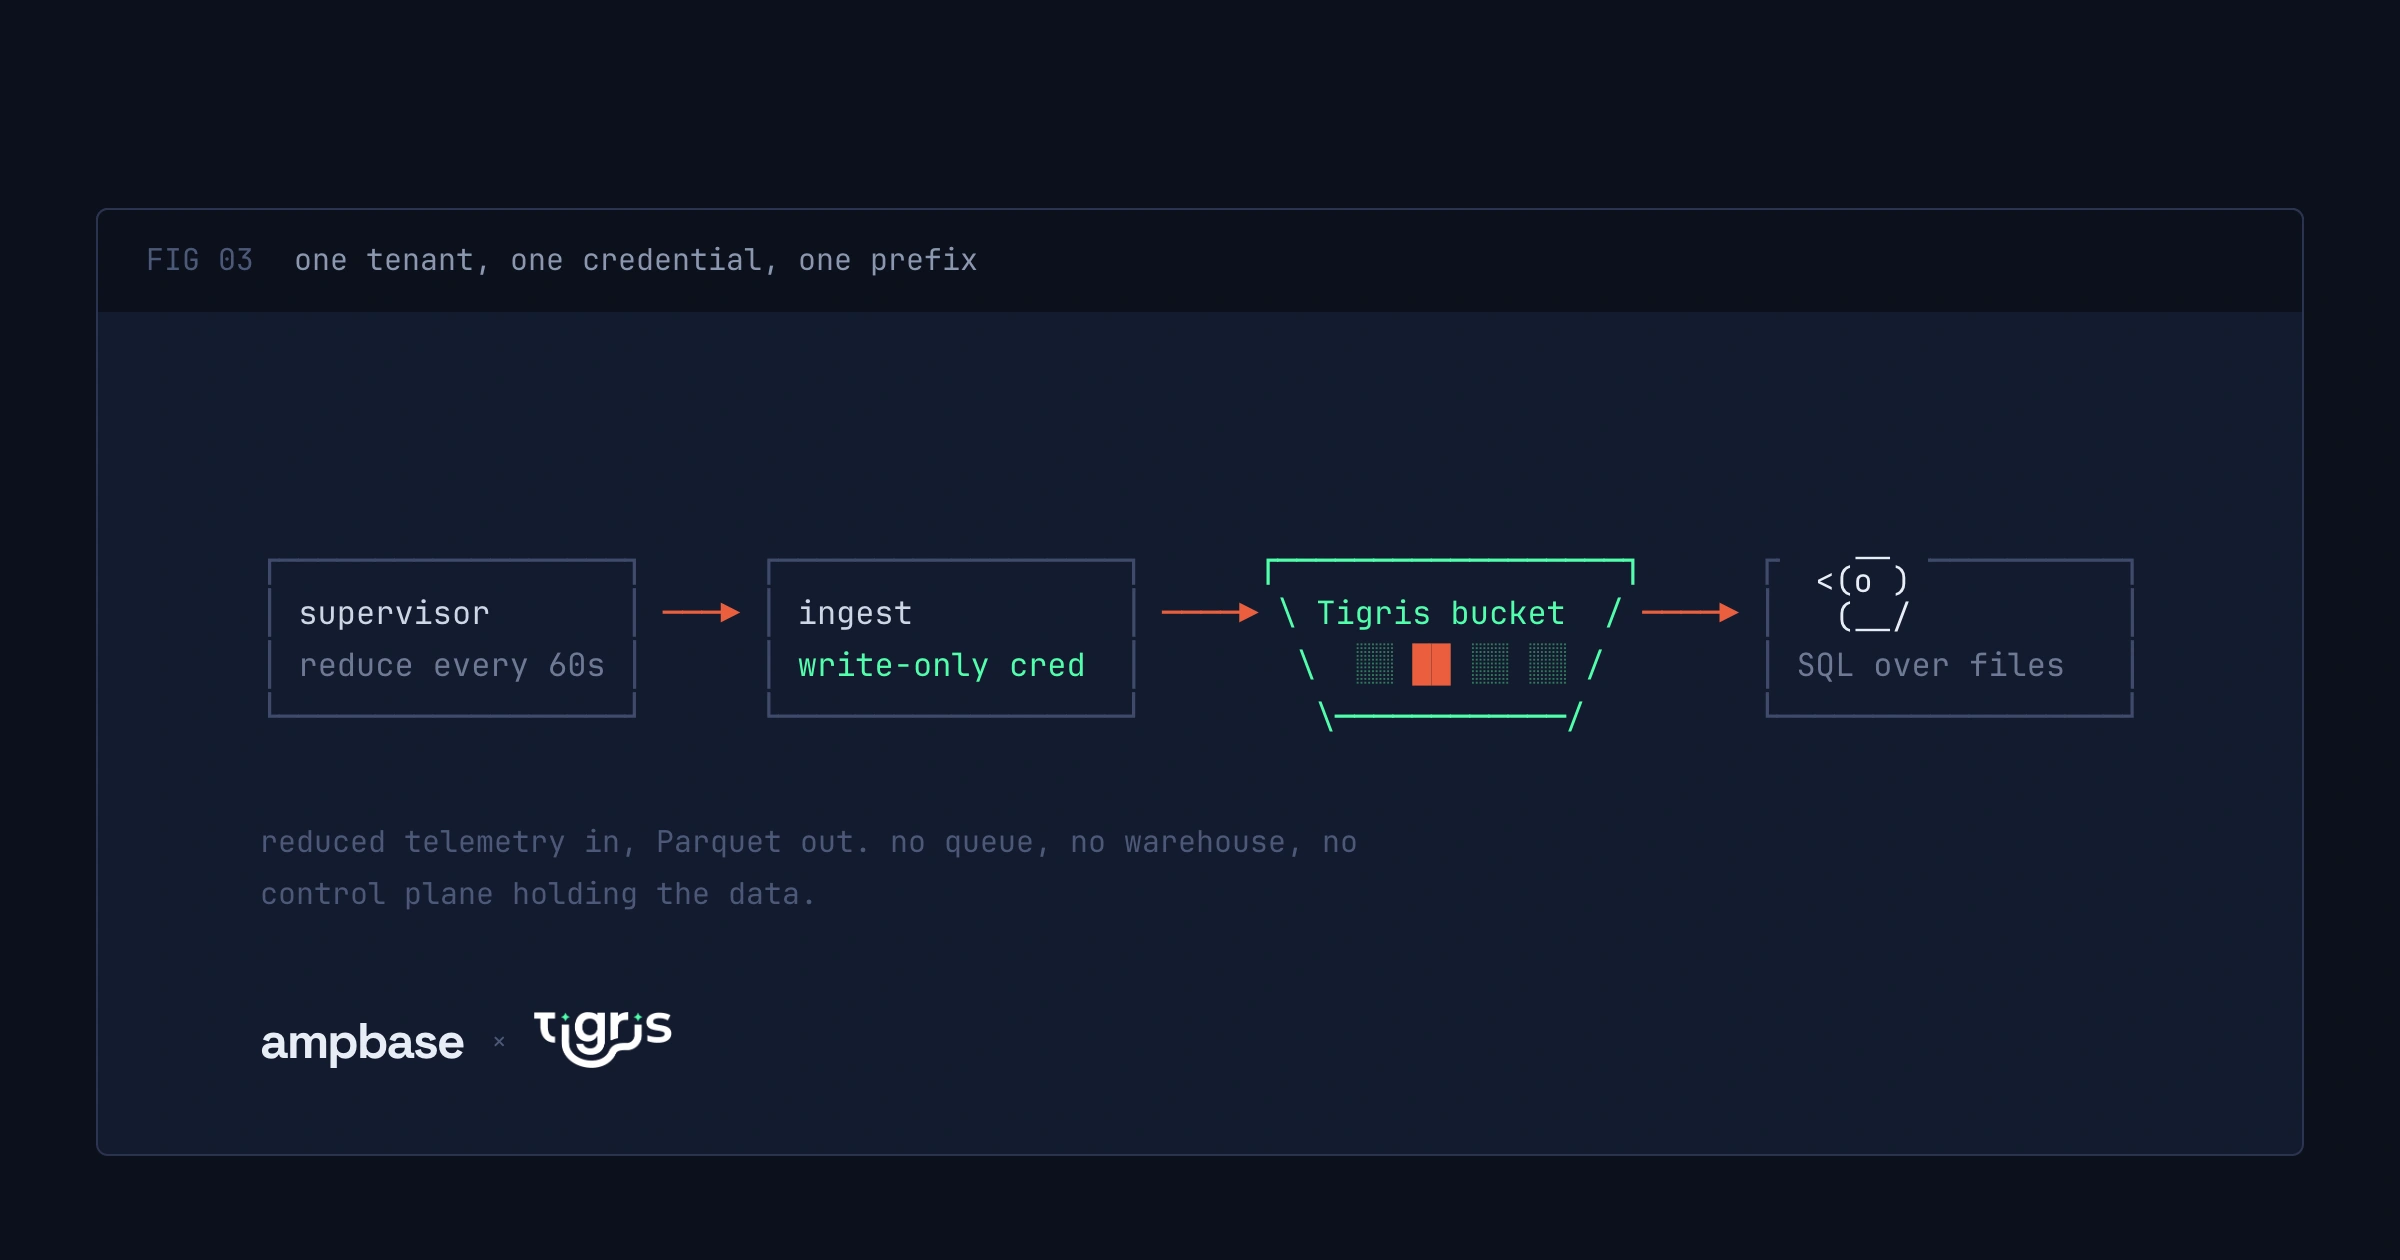
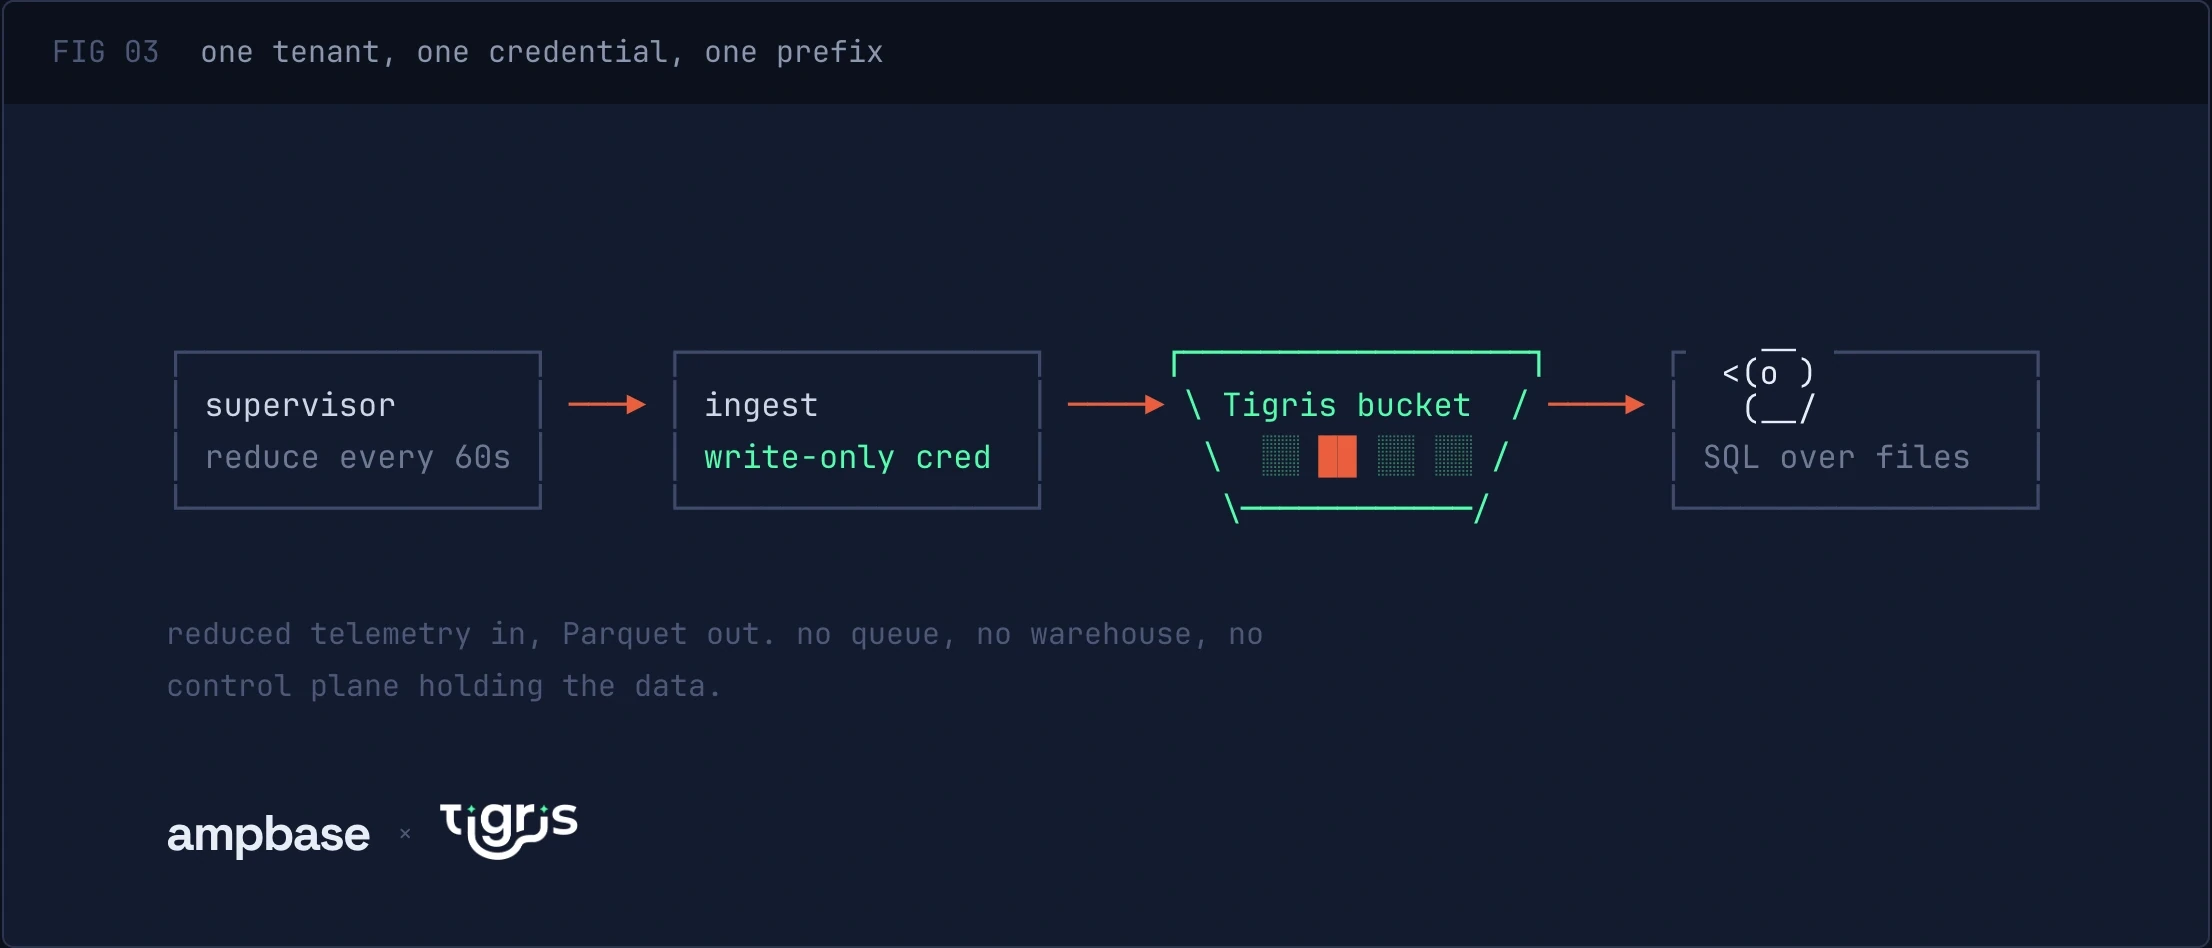
fix: frame the featured card at the hero artwork's aspect ratio
the blog home featured card framed its thumbnail at 16:10 and fit it with
object-fit: cover. jp's hero art is a wide diagram (a 2208x948 panel on a
2400x1260 canvas), so two things went wrong at once: the canvas margin baked
into the image, 208px above the panel and 104px below, survived the fit and
read as bars, while cover cropped 190px off each side and clipped the "fig 03"
label at the left edge. the same numbers held at every width from 390px to
1920px, since the frame is 16:10 at all of them.

no image ratio fixes both in a 16:10 frame: the artwork itself is 2.33:1, so
anything that shows all of it leaves bars, and anything that fills the frame
crops the labels. so this crops the empty canvas margin off the image (2400x1260
-> 2212x948, no artwork touched) and frames the featured thumbnail at 7:3 to
match, which leaves the panel filling the frame edge to edge with nothing
cropped at either side.

Assisted-by: Claude Opus 5 (1M context) via Claude Code
Claude-Session: https://claude.ai/code/session_01CLX8utYuSvfSEkBxLMPwmW

diff --git a/src/theme/BlogPostItems/styles.module.css b/src/theme/BlogPostItems/styles.module.css
@@ -32,10 +32,17 @@
   color: inherit;
 }
 
+/* 7:3 frames the wide diagrams our hero images are drawn as: they fill it
+   edge to edge, with no bars above and below and no clipped labels at the left
+   or right. Hero art should be exported at this ratio, since `object-fit:
+   cover` crops the long edge of anything squarer. `align-self: center` keeps
+   the frame at its ratio rather than stretching it to the height of the text
+   beside it. */
 .featuredImageWrap {
   flex: 0 0 55%;
   max-width: 55%;
-  aspect-ratio: 16 / 10;
+  align-self: center;
+  aspect-ratio: 7 / 3;
   border-radius: 12px;
   overflow: hidden;
   border: 1px solid var(--ifm-color-emphasis-200);
